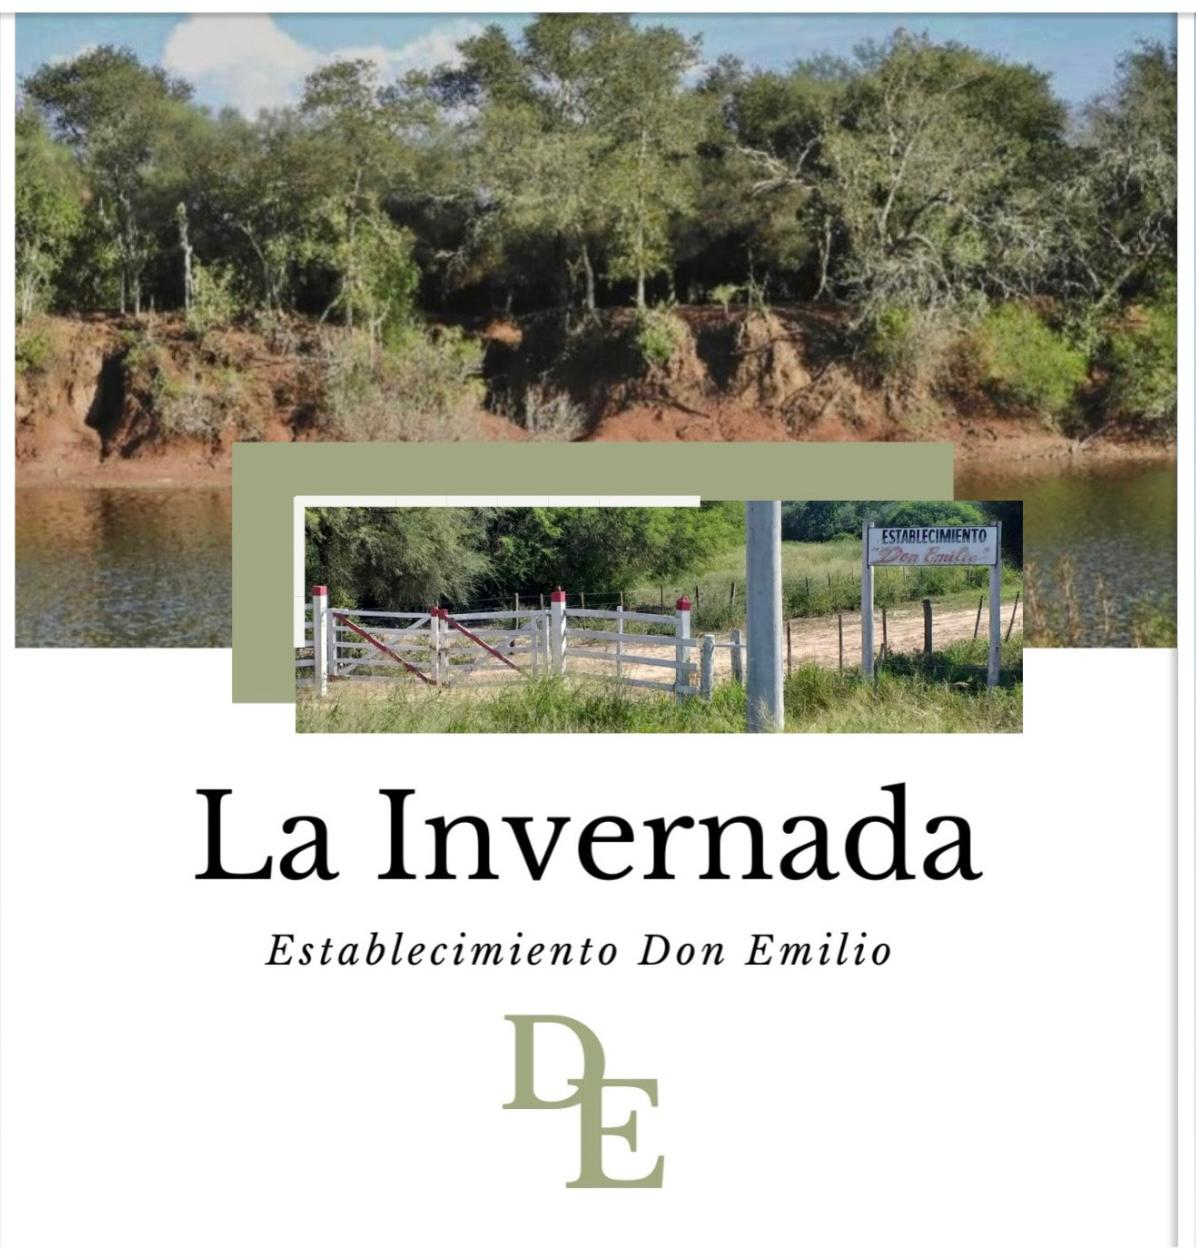
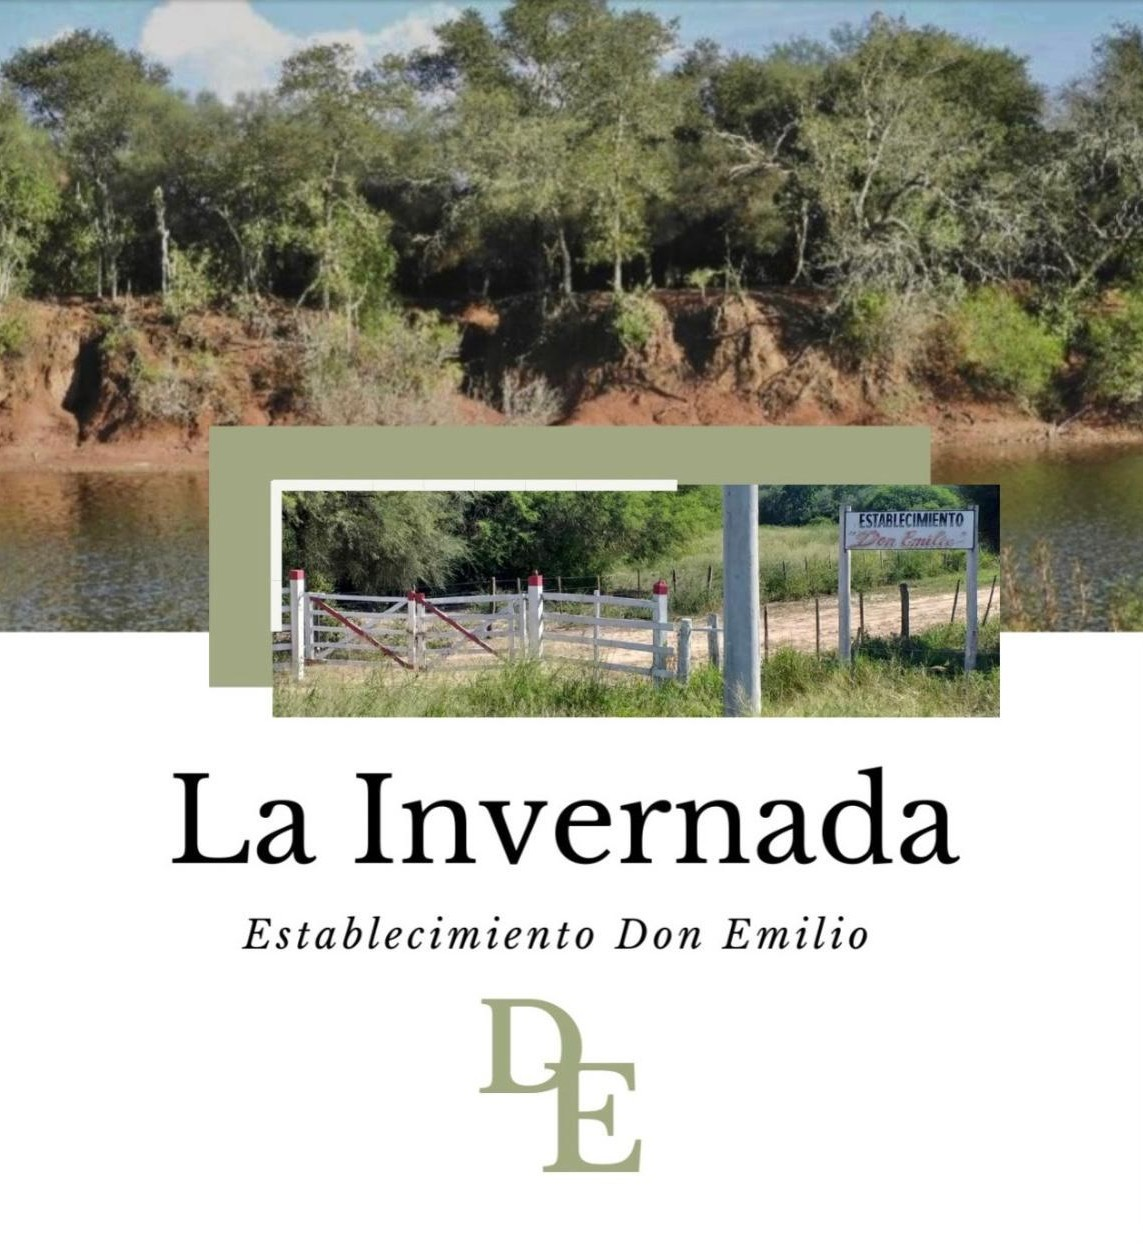
fix middleware

diff --git a/server/src/middlewares/auth.js b/server/src/middlewares/auth.js
@@ -1,15 +1,25 @@
 import jwt from "jsonwebtoken";
 
 export const authMiddleware = (req, res, next) => {
-  const token = req.headers.authorization?.split(" ")[1];
-
-  if (!token) return res.status(401).json({ error: "No token" });
-
   try {
-    const decoded = jwt.verify(token, "secret");
+    const authHeader = req.headers.authorization;
+
+    if (!authHeader) {
+      return res.status(401).json({ error: "No token" });
+    }
+
+    const token = authHeader.split(" ")[1];
+
+    const decoded = jwt.verify(
+      token,
+      process.env.JWT_SECRET || "secret" // 🔥 MISMO SECRET
+    );
+
     req.user = decoded;
+
     next();
-  } catch {
-    res.status(401).json({ error: "Invalid token" });
+  } catch (error) {
+    console.error("AUTH ERROR:", error); // 🔥 debug real
+    return res.status(401).json({ error: "Invalid token" });
   }
 };